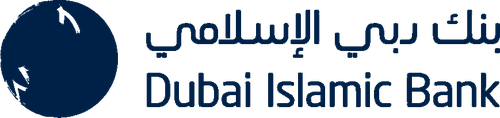
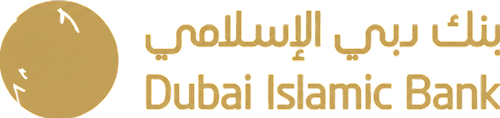
Client Section with Ticker

diff --git a/components/motion-primitives/infinite-slider.tsx b/components/motion-primitives/infinite-slider.tsx
@@ -1,0 +1,113 @@
+'use client';
+import { cn } from '@/lib/utils';
+import { useMotionValue, animate, motion } from 'motion/react';
+import { useState, useEffect } from 'react';
+import useMeasure from 'react-use-measure';
+
+export type InfiniteSliderProps = {
+  children: React.ReactNode;
+  gap?: number;
+  speed?: number;
+  speedOnHover?: number;
+  direction?: 'horizontal' | 'vertical';
+  reverse?: boolean;
+  className?: string;
+};
+
+export function InfiniteSlider({
+  children,
+  gap = 16,
+  speed = 100,
+  speedOnHover,
+  direction = 'horizontal',
+  reverse = false,
+  className,
+}: InfiniteSliderProps) {
+  const [isHovering, setIsHovering] = useState(false);
+  const currentSpeed = isHovering && speedOnHover ? speedOnHover : speed;
+  const [ref, { width, height }] = useMeasure();
+  const translation = useMotionValue(0);
+  const [isTransitioning, setIsTransitioning] = useState(false);
+  const [key, setKey] = useState(0);
+
+  useEffect(() => {
+    let controls;
+    const size = direction === 'horizontal' ? width : height;
+    const contentSize = size + gap;
+    const from = reverse ? -contentSize / 2 : 0;
+    const to = reverse ? 0 : -contentSize / 2;
+
+    const distanceToTravel = Math.abs(to - from);
+    const duration = distanceToTravel / currentSpeed;
+
+    if (isTransitioning) {
+      const remainingDistance = Math.abs(translation.get() - to);
+      const transitionDuration = remainingDistance / currentSpeed;
+
+      controls = animate(translation, [translation.get(), to], {
+        ease: 'linear',
+        duration: transitionDuration,
+        onComplete: () => {
+          setIsTransitioning(false);
+          setKey((prevKey) => prevKey + 1);
+        },
+      });
+    } else {
+      controls = animate(translation, [from, to], {
+        ease: 'linear',
+        duration: duration,
+        repeat: Infinity,
+        repeatType: 'loop',
+        repeatDelay: 0,
+        onRepeat: () => {
+          translation.set(from);
+        },
+      });
+    }
+
+    return controls?.stop;
+  }, [
+    key,
+    translation,
+    currentSpeed,
+    width,
+    height,
+    gap,
+    isTransitioning,
+    direction,
+    reverse,
+  ]);
+
+  const hoverProps = speedOnHover
+    ? {
+        onHoverStart: () => {
+          setIsTransitioning(true);
+          setIsHovering(true);
+        },
+        onHoverEnd: () => {
+          setIsTransitioning(true);
+          setIsHovering(false);
+        },
+      }
+    : {};
+
+  return (
+    <div className={cn('overflow-hidden', className)}>
+      <motion.div
+        className='flex w-max'
+        style={{
+          ...(direction === 'horizontal'
+            ? { x: translation }
+            : { y: translation }),
+          gap: `${gap}px`,
+          flexDirection: direction === 'horizontal' ? 'row' : 'column',
+        }}
+        ref={ref}
+        {...hoverProps}
+      >
+        {children}
+        {children}
+      </motion.div>
+    </div>
+  );
+}

diff --git a/components/sections/clients.tsx b/components/sections/clients.tsx
@@ -1,0 +1,58 @@
+"use client";
+
+import { InfiniteSlider } from "@/components/motion-primitives/infinite-slider";
+
+const clients = [
+  { name: "Dubai Islamic Bank", src: "/clients/dubaiislamicbank.png" },
+  { name: "Metrobank", src: "/clients/metrobank.png" },
+  { name: "Gulf International Bank", src: "/clients/gulf.png" },
+  { name: "BDO", src: "/clients/bdo.png" },
+  { name: "HSBC", src: "/clients/hsbc.png" },
+  { name: "Maybank", src: "/clients/maybank.png" },
+  { name: "Chinabank", src: "/clients/chinabank.png" },
+  { name: "Emirates Islamic", src: "/clients/emiratesislamic.png" },
+  { name: "Emirates NBD", src: "/clients/emiratesnbd.png" },
+  { name: "PSBank", src: "/clients/psbank.png" },
+  { name: "Eastwest", src: "/clients/eastwest.png" },
+];
+
+function LogoCard({ name, src }: { name: string; src: string }) {
+  return (
+    <div className="group relative flex h-20 w-40 items-center justify-center">
+      <img
+        src={src}
+        alt={name}
+        className="max-h-12 w-auto max-w-32 object-contain opacity-80 transition-all duration-300 group-hover:opacity-100"
+      />
+      <div className="pointer-events-none absolute inset-0 flex items-center justify-center bg-primary-800/90 opacity-0 transition-opacity duration-300 group-hover:opacity-100">
+        <span className="font-title text-base text-light-100 text-center px-2">
+          {name}
+        </span>
+      </div>
+    </div>
+  );
+}
+
+export default function Clients() {
+  return (
+    <section className="bg-light-100 py-20 flex flex-col gap-10">
+      <p className="text-center font-title text-2xl text-accent-500">
+        #1 Trusted Partner for the GCC&apos;s Largest Financial Institutions
+      </p>
+
+      <div className="flex flex-col gap-6 w-full overflow-hidden">
+        <InfiniteSlider speedOnHover={20} gap={32}>
+          {clients.map((client) => (
+            <LogoCard key={client.src} {...client} />
+          ))}
+        </InfiniteSlider>
+
+        <InfiniteSlider speedOnHover={20} gap={32} reverse>
+          {clients.map((client) => (
+            <LogoCard key={`${client.src}-2`} {...client} />
+          ))}
+        </InfiniteSlider>
+      </div>
+    </section>
+  );
+}

diff --git a/app/page.tsx b/app/page.tsx
@@ -1,9 +1,11 @@
+import Clients from "@/components/sections/clients";
 import Hero from "@/components/sections/hero";
 
 export default function Home() {
   return (
     <main>
       <Hero />
+      <Clients />
       {/* other sections go here */}
     </main>
   );

diff --git a/app/globals.css b/app/globals.css
@@ -12,7 +12,7 @@
   --color-primary-800: #0c1f3f;
   --color-primary-700: #16305e;
   --color-accent-600: #b8860b;
-  --color-accent-500: #d4a017;
+  --color-accent-500: #DFB85F;
 
   /* Fonts */
   --font-title: var(--font-title);

diff --git a/app/layout.tsx b/app/layout.tsx
@@ -14,7 +14,6 @@ import SplashScreen from "@/components/splash-screen";
 const title = Raleway({
   subsets: ["latin"],
   variable: "--font-title",
-  weight: ["600", "700"],
 });
 
 const heading = Wix_Madefor_Display({
